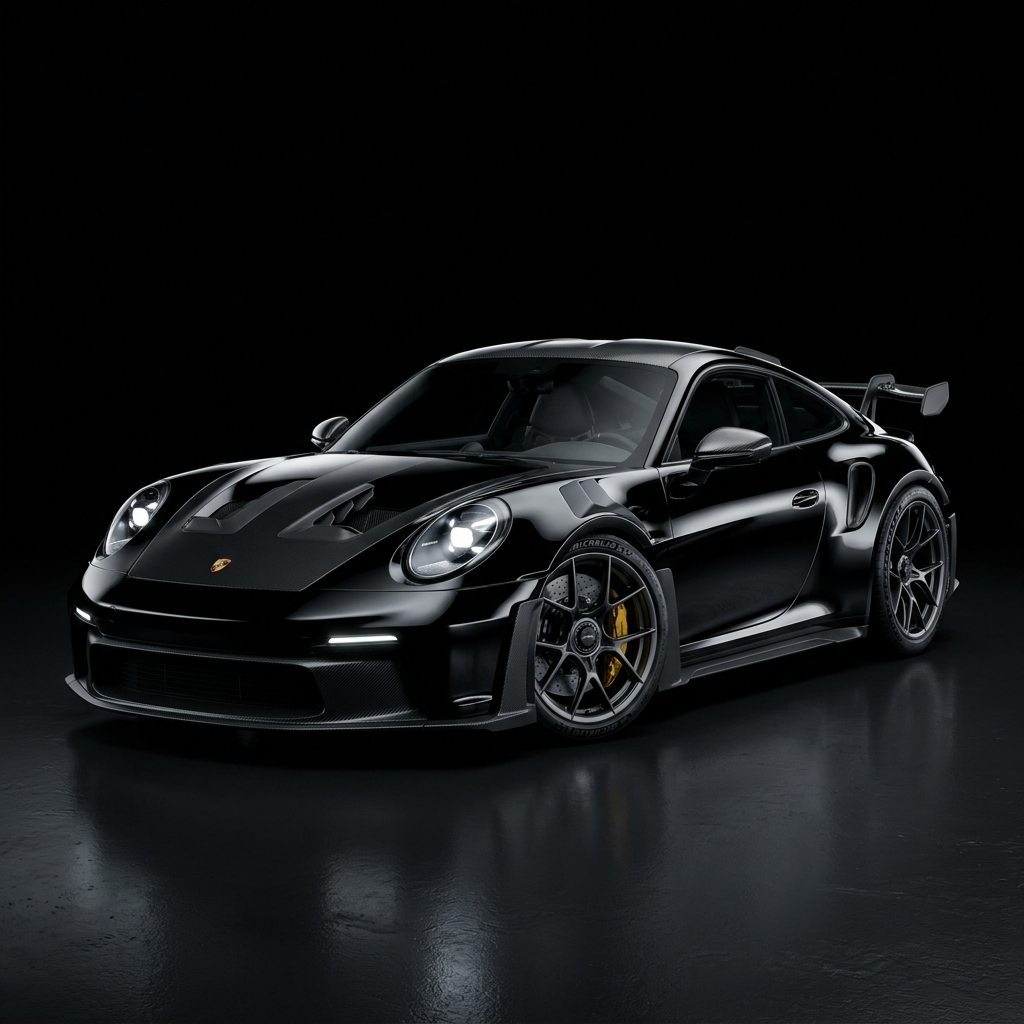
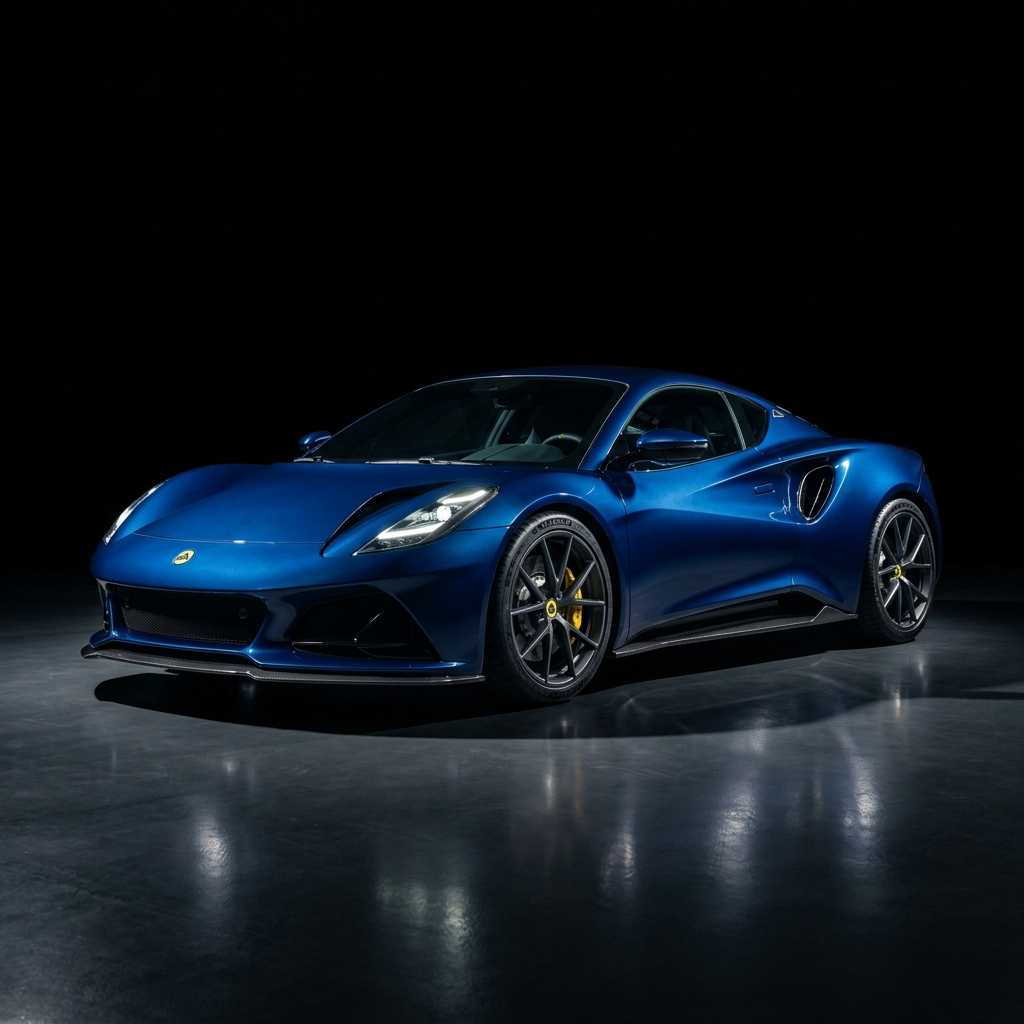
ui updated

diff --git a/src/app/admin/page.jsx b/src/app/admin/page.jsx
@@ -17,6 +17,7 @@ import {
 } from "firebase/storage";
 import { motion, AnimatePresence } from "framer-motion";
 import Image from "next/image";
+import Link from "next/link";
 
 export default function AdminPage() {
   const [user, setUser] = useState(null);
@@ -35,7 +36,17 @@ export default function AdminPage() {
   const [carFormData, setCarFormData] = useState({
     name: "", brand: "", model: "", year: new Date().getFullYear(),
     type: "rental", price: 0, rentalDaily: 0, rentalWeekly: 0,
-    description: "", available: true, images: []
+    description: "", available: true, images: [],
+    // New fields
+    premium: false,
+    seats: 5,
+    suitcases: 2,
+    bags: 2,
+    transmission: "Automatic",
+    doors: 4,
+    gps: true,
+    minAge: 25,
+    terms: "01. Minimum Age: Driver must be at least 25 years old with a valid driving license.\n02. Identification: Passport or National ID required for security verification.\n03. Security Deposit: A refundable security deposit of ৳20,000 is required upon delivery.\n04. Usage: Vehicle must be driven within national boundaries only.\n05. Fuel Policy: Vehicle will be delivered with a full tank and must be returned with a full tank."
   });
   const [uploadingImages, setUploadingImages] = useState(false);
   const [tempImageUrl, setTempImageUrl] = useState("");
@@ -101,7 +112,9 @@ export default function AdminPage() {
       setCarFormData({
         name: "", brand: "", model: "", year: new Date().getFullYear(),
         type: "rental", price: 0, rentalDaily: 0, rentalWeekly: 0,
-        description: "", available: true, images: []
+        description: "", available: true, images: [],
+        premium: false, seats: 5, suitcases: 2, bags: 2, transmission: "Automatic", doors: 4, gps: true, minAge: 25,
+        terms: "01. Minimum Age: Driver must be at least 25 years old with a valid driving license.\n02. Identification: Passport or National ID required for security verification.\n03. Security Deposit: A refundable security deposit of ৳20,000 is required upon delivery.\n04. Usage: Vehicle must be driven within national boundaries only.\n05. Fuel Policy: Vehicle will be delivered with a full tank and must be returned with a full tank."
       });
       fetchData();
     } catch (error) {
@@ -234,8 +247,11 @@ export default function AdminPage() {
       {/* Header */}
       <header className="border-b border-white/5 bg-[#0a0a0a]/80 backdrop-blur-xl sticky top-0 z-30">
         <div className="container mx-auto px-6 h-20 flex justify-between items-center">
-          <h1 className="text-2xl font-bebas text-white tracking-widest">DEALS ON WHEELS <span className="text-primary ml-2">ADMIN</span></h1>
+          <Link href="/" className="text-2xl font-bebas text-white tracking-widest hover:text-white/80 transition-colors">DEALS ON WHEELS <span className="text-primary ml-2">ADMIN</span></Link>
           <div className="flex items-center gap-6">
+            <Link href="/" className="text-[10px] font-bold text-white/60 hover:text-white border border-white/10 px-4 py-2 uppercase tracking-widest transition-colors hidden md:block">
+              BACK TO SITE
+            </Link>
             <span className="text-xs text-white/40 tracking-widest uppercase hidden md:block">{user.email}</span>
             <button onClick={handleLogout} className="text-[10px] font-bold text-white/60 hover:text-white border border-white/10 px-4 py-2 uppercase tracking-widest transition-colors">
               LOGOUT
@@ -321,7 +337,13 @@ export default function AdminPage() {
               <button 
                 onClick={() => {
                   setEditingCar(null);
-                  setCarFormData({ name: "", brand: "", model: "", year: new Date().getFullYear(), type: "rental", price: 0, rentalDaily: 0, rentalWeekly: 0, description: "", available: true, images: [] });
+                  setCarFormData({ 
+                    name: "", brand: "", model: "", year: new Date().getFullYear(), 
+                    type: "rental", price: 0, rentalDaily: 0, rentalWeekly: 0, 
+                    description: "", available: true, images: [],
+                    premium: false, seats: 5, suitcases: 2, bags: 2, transmission: "Automatic", doors: 4, gps: true, minAge: 25,
+                    terms: "01. Minimum Age: Driver must be at least 25 years old with a valid driving license.\n02. Identification: Passport or National ID required for security verification.\n03. Security Deposit: A refundable security deposit of ৳20,000 is required upon delivery.\n04. Usage: Vehicle must be driven within national boundaries only.\n05. Fuel Policy: Vehicle will be delivered with a full tank and must be returned with a full tank."
+                  });
                   setIsCarModalOpen(true);
                 }}
                 className="px-6 py-3 bg-white text-black text-xs font-bold uppercase tracking-widest hover:bg-white/90 transition-colors"
@@ -442,6 +464,69 @@ export default function AdminPage() {
                           <label className="text-[10px] text-white/40 uppercase tracking-[0.15em] mb-2 block">Weekly Rental Rate (BDT)</label>
                           <input type="number" value={carFormData.rentalWeekly} onChange={(e) => setCarFormData({...carFormData, rentalWeekly: parseInt(e.target.value) || 0})} className="w-full bg-[#050505] border border-white/10 p-4 text-sm font-mono text-white outline-none focus:border-primary transition-colors" placeholder="e.g. 30000" />
                         </div>
+                      </div>
+                    </div>
+
+                    <div className="border-t border-white/5 pt-6 mt-6 space-y-6">
+                      <h3 className="text-xs font-bold text-white uppercase tracking-widest mb-4">Detailed Specifications</h3>
+                      
+                      <div className="grid grid-cols-2 gap-6">
+                        <label className="flex items-center gap-3 cursor-pointer p-4 border border-white/5 bg-[#050505] hover:border-white/20 transition-colors">
+                          <div className={`w-4 h-4 border flex items-center justify-center transition-colors ${carFormData.premium ? 'bg-primary border-primary' : 'border-white/20'}`}>
+                            {carFormData.premium && <span className="text-white text-[10px]">✓</span>}
+                          </div>
+                          <input type="checkbox" checked={carFormData.premium} onChange={(e) => setCarFormData({...carFormData, premium: e.target.checked})} className="hidden" />
+                          <span className="text-[10px] tracking-widest uppercase text-white/70">Premium Brand</span>
+                        </label>
+                        
+                        <label className="flex items-center gap-3 cursor-pointer p-4 border border-white/5 bg-[#050505] hover:border-white/20 transition-colors">
+                          <div className={`w-4 h-4 border flex items-center justify-center transition-colors ${carFormData.gps ? 'bg-primary border-primary' : 'border-white/20'}`}>
+                            {carFormData.gps && <span className="text-white text-[10px]">✓</span>}
+                          </div>
+                          <input type="checkbox" checked={carFormData.gps} onChange={(e) => setCarFormData({...carFormData, gps: e.target.checked})} className="hidden" />
+                          <span className="text-[10px] tracking-widest uppercase text-white/70">GPS Included</span>
+                        </label>
+                      </div>
+
+                      <div className="grid grid-cols-2 gap-6">
+                        <div>
+                          <label className="text-[10px] text-white/40 uppercase tracking-[0.15em] mb-2 block">Seats</label>
+                          <input type="number" value={carFormData.seats} onChange={(e) => setCarFormData({...carFormData, seats: parseInt(e.target.value) || 0})} className="w-full bg-[#050505] border border-white/10 p-4 text-sm text-white outline-none focus:border-primary transition-colors" />
+                        </div>
+                        <div>
+                          <label className="text-[10px] text-white/40 uppercase tracking-[0.15em] mb-2 block">Transmission</label>
+                          <select value={carFormData.transmission} onChange={(e) => setCarFormData({...carFormData, transmission: e.target.value})} className="w-full bg-[#050505] border border-white/10 p-4 text-sm text-white outline-none focus:border-primary transition-colors appearance-none">
+                            <option value="Automatic">Automatic</option>
+                            <option value="Manual">Manual</option>
+                          </select>
+                        </div>
+                      </div>
+
+                      <div className="grid grid-cols-2 gap-6">
+                        <div>
+                          <label className="text-[10px] text-white/40 uppercase tracking-[0.15em] mb-2 block">Suitcases (Large)</label>
+                          <input type="number" value={carFormData.suitcases} onChange={(e) => setCarFormData({...carFormData, suitcases: parseInt(e.target.value) || 0})} className="w-full bg-[#050505] border border-white/10 p-4 text-sm text-white outline-none focus:border-primary transition-colors" />
+                        </div>
+                        <div>
+                          <label className="text-[10px] text-white/40 uppercase tracking-[0.15em] mb-2 block">Bags (Small)</label>
+                          <input type="number" value={carFormData.bags} onChange={(e) => setCarFormData({...carFormData, bags: parseInt(e.target.value) || 0})} className="w-full bg-[#050505] border border-white/10 p-4 text-sm text-white outline-none focus:border-primary transition-colors" />
+                        </div>
+                      </div>
+
+                      <div className="grid grid-cols-2 gap-6">
+                        <div>
+                          <label className="text-[10px] text-white/40 uppercase tracking-[0.15em] mb-2 block">Doors</label>
+                          <input type="number" value={carFormData.doors} onChange={(e) => setCarFormData({...carFormData, doors: parseInt(e.target.value) || 0})} className="w-full bg-[#050505] border border-white/10 p-4 text-sm text-white outline-none focus:border-primary transition-colors" />
+                        </div>
+                        <div>
+                          <label className="text-[10px] text-white/40 uppercase tracking-[0.15em] mb-2 block">Min Driver Age</label>
+                          <input type="number" value={carFormData.minAge} onChange={(e) => setCarFormData({...carFormData, minAge: parseInt(e.target.value) || 0})} className="w-full bg-[#050505] border border-white/10 p-4 text-sm text-white outline-none focus:border-primary transition-colors" />
+                        </div>
+                      </div>
+
+                      <div>
+                        <label className="text-[10px] text-white/40 uppercase tracking-[0.15em] mb-2 block">Rental Terms & Conditions</label>
+                        <textarea value={carFormData.terms} onChange={(e) => setCarFormData({...carFormData, terms: e.target.value})} className="w-full h-32 bg-[#050505] border border-white/10 p-4 text-sm text-white outline-none focus:border-primary transition-colors resize-none" placeholder="Enter rental rules and conditions..." />
                       </div>
                     </div>
 

diff --git a/src/components/CarCard.jsx b/src/components/CarCard.jsx
@@ -1,13 +1,15 @@
 // src/components/CarCard.jsx
 "use client";
 
-import { motion, useMotionValue, useSpring, useTransform } from "framer-motion";
+import { useState } from "react";
+import { motion, useMotionValue, useSpring, useTransform, AnimatePresence } from "framer-motion";
 import Image from "next/image";
 import { openWhatsApp } from "@/lib/whatsapp";
 import { useLanguage } from "@/lib/LanguageContext";
 
 const CarCard = ({ car, mode, onBook }) => {
   const { t } = useLanguage();
+  const [showTerms, setShowTerms] = useState(false);
   const x = useMotionValue(0);
   const y = useMotionValue(0);
 
@@ -47,6 +49,7 @@ const CarCard = ({ car, mode, onBook }) => {
   };
 
   return (
+    <>
     <motion.div
       onMouseMove={handleMouseMove}
       onMouseLeave={handleMouseLeave}
@@ -88,12 +91,45 @@ const CarCard = ({ car, mode, onBook }) => {
       <div className="p-8 z-10 flex-grow flex flex-col justify-between" style={{ transform: "translateZ(30px)" }}>
         <div>
           <h3 className="text-3xl font-bebas tracking-wide text-white mb-1 uppercase">{car.name}</h3>
-          <div className="flex items-center gap-3 text-[10px] text-white/40 uppercase tracking-[0.15em] mb-8 font-medium">
+          <div className="flex items-center gap-3 text-[10px] text-white/40 uppercase tracking-[0.15em] mb-4 font-medium">
             <span>{car.brand}</span>
             <span className="w-1 h-1 bg-white/20 rounded-full" />
             <span>{car.year}</span>
             <span className="w-1 h-1 bg-white/20 rounded-full" />
             <span>{car.model}</span>
+          </div>
+
+          {/* New Specs Icons: Horizontal & Gray */}
+          <div className="grid grid-cols-2 md:grid-cols-3 gap-y-4 gap-x-4 mb-8 py-6 border-y border-white/5">
+            <div className="flex items-center gap-2">
+              <svg className="w-4 h-4 text-white/60 shrink-0" fill="none" viewBox="0 0 24 24" stroke="currentColor"><path strokeLinecap="round" strokeLinejoin="round" strokeWidth={1.5} d="M16 7a4 4 0 11-8 0 4 4 0 018 0zM12 14a7 7 0 00-7 7h14a7 7 0 00-7-7z" /></svg>
+              <span className="text-[10px] text-white/80 font-mono tracking-tight whitespace-nowrap">{car.seats || 5} Seats</span>
+            </div>
+            <div className="flex items-center gap-2">
+              <svg className="w-4 h-4 text-white/60 shrink-0" fill="none" viewBox="0 0 24 24" stroke="currentColor"><path strokeLinecap="round" strokeLinejoin="round" strokeWidth={1.5} d="M21 13.255A23.931 23.931 0 0112 15c-3.183 0-6.22-.62-9-1.745M16 6V4a2 2 0 00-2-2h-4a2 2 0 00-2 2v2m4 6h.01M5 20h14a2 2 0 002-2V8a2 2 0 00-2-2H5a2 2 0 00-2 2v10a2 2 0 002 2z" /></svg>
+              <span className="text-[10px] text-white/80 font-mono tracking-tight whitespace-nowrap">{car.suitcases || 2} Bags</span>
+            </div>
+            <div className="flex items-center gap-2">
+              <svg className="w-4 h-4 text-white/60 shrink-0" fill="none" viewBox="0 0 24 24" stroke="currentColor"><path strokeLinecap="round" strokeLinejoin="round" strokeWidth={1.5} d="M10.325 4.317c.426-1.756 2.924-1.756 3.35 0a1.724 1.724 0 002.573 1.066c1.543-.94 3.31.826 2.37 2.37a1.724 1.724 0 001.065 2.572c1.756.426 1.756 2.924 0 3.35a1.724 1.724 0 00-1.066 2.573c.94 1.543-.826 3.31-2.37 2.37a1.724 1.724 0 00-2.572 1.065c-.426 1.756-2.924 1.756-3.35 0a1.724 1.724 0 00-2.573-1.066c-1.543.94-3.31-.826-2.37-2.37a1.724 1.724 0 00-1.065-2.572c-1.756-.426-1.756-2.924 0-3.35a1.724 1.724 0 001.066-2.573c-.94-1.543.826-3.31 2.37-2.37.996.608 2.296.07 2.572-1.065z" /><path strokeLinecap="round" strokeLinejoin="round" strokeWidth={1.5} d="M15 12a3 3 0 11-6 0 3 3 0 016 0z" /></svg>
+              <span className="text-[10px] text-white/80 font-mono tracking-tight whitespace-nowrap">{car.transmission || "Auto"}</span>
+            </div>
+            <div className="flex items-center gap-2">
+              <svg className="w-4 h-4 text-white/60 shrink-0" fill="none" viewBox="0 0 24 24" stroke="currentColor"><path strokeLinecap="round" strokeLinejoin="round" strokeWidth={1.5} d="M17.657 16.657L13.414 20.9a1.998 1.998 0 01-2.827 0l-4.244-4.243a8 8 0 1111.314 0z" /><path strokeLinecap="round" strokeLinejoin="round" strokeWidth={1.5} d="M15 11a3 3 0 11-6 0 3 3 0 016 0z" /></svg>
+              <span className="text-[10px] text-white/80 font-mono tracking-tight whitespace-nowrap">{car.gps ? "GPS" : "No GPS"}</span>
+            </div>
+            <div className="flex items-center gap-2">
+              <svg className="w-4 h-4 text-white/60 shrink-0" fill="none" viewBox="0 0 24 24" stroke="currentColor"><path strokeLinecap="round" strokeLinejoin="round" strokeWidth={1.5} d="M12 11c0 3.517-1.009 6.799-2.753 9.571m-3.44-10.426A7.29 7.29 0 013 11c0-2.348.966-4.47 2.522-5.978m9.226 13.253a7.29 7.29 0 004.73-3.722C19.82 13.013 20 11.831 20 10.614c0-2.348-.966-4.47-2.522-5.978m-9.226 0a7.29 7.29 0 014.73-3.722C13.82 2.013 14 3.191 14 4.408c0 1.216-.18 2.398-.522 3.516" /></svg>
+              <span className="text-[10px] text-white/80 font-mono tracking-tight whitespace-nowrap">Age: {car.minAge || 25}+</span>
+            </div>
+            <div className="flex items-center gap-2">
+              <svg className="w-4 h-4 text-white/60 shrink-0" fill="none" viewBox="0 0 24 24" stroke="currentColor"><path strokeLinecap="round" strokeLinejoin="round" strokeWidth={1.5} d="M19 11H5m14 0a2 2 0 012 2v6a2 2 0 01-2 2H5a2 2 0 01-2-2v-6a2 2 0 012-2m14 0V9a2 2 0 00-2-2M5 11V9a2 2 0 012-2m0 0V5a2 2 0 012-2h6a2 2 0 012 2v2M7 7h10" /></svg>
+              <span className="text-[10px] text-white/80 font-mono tracking-tight whitespace-nowrap">{car.doors || 4} Doors</span>
+            </div>
+            {car.premium && (
+              <div className="flex items-center gap-2 col-span-2">
+                <span className="text-[9px] font-bold tracking-[0.2em] text-primary border border-primary/20 px-3 py-1 rounded-none uppercase bg-primary/5">PREMIUM BRAND</span>
+              </div>
+            )}
           </div>
         </div>
 
@@ -146,7 +182,45 @@ const CarCard = ({ car, mode, onBook }) => {
           </div>
         )}
       </div>
+
+      {/* Terms Link */}
+      {mode === "rental" && (
+        <button 
+          onClick={() => setShowTerms(true)}
+          className="absolute bottom-2 left-1/2 -translate-x-1/2 text-[8px] text-white/20 uppercase tracking-widest hover:text-primary transition-colors"
+        >
+          View Rental Terms
+        </button>
+      )}
     </motion.div>
+
+    {/* Terms & Conditions Modal - MOVED OUTSIDE to avoid overflow clipping */}
+    <AnimatePresence>
+      {showTerms && (
+        <div className="fixed inset-0 z-[100] flex items-center justify-center p-6">
+          <motion.div initial={{ opacity: 0 }} animate={{ opacity: 1 }} exit={{ opacity: 0 }} onClick={() => setShowTerms(false)} className="absolute inset-0 bg-[#050505]/95 backdrop-blur-md" />
+          <motion.div 
+            initial={{ scale: 0.9, opacity: 0, y: 20 }} 
+            animate={{ scale: 1, opacity: 1, y: 0 }} 
+            exit={{ scale: 0.9, opacity: 0, y: 20 }}
+            className="relative w-full max-w-lg bg-[#0a0a0a] border border-white/10 p-10 overflow-y-auto max-h-[80vh] no-scrollbar z-50"
+          >
+            <h3 className="text-3xl font-bebas tracking-widest text-white mb-6 uppercase">Rental Terms & Conditions</h3>
+            <div className="space-y-4 text-sm text-white/60 leading-relaxed font-light tracking-wide whitespace-pre-line">
+              {car.terms || `01. Minimum Age: Driver must be at least ${car.minAge || 25} years old with a valid driving license.
+02. Identification: Passport or National ID required for security verification.
+03. Security Deposit: A refundable security deposit of ৳20,000 is required upon delivery.
+04. Usage: Vehicle must be driven within national boundaries only.
+05. Fuel Policy: Vehicle will be delivered with a full tank and must be returned with a full tank.`}
+            </div>
+            <button onClick={() => setShowTerms(false)} className="w-full mt-10 py-4 bg-white text-black font-bold text-xs uppercase tracking-widest transition-all hover:bg-white/90">
+              UNDERSTOOD
+            </button>
+          </motion.div>
+        </div>
+      )}
+    </AnimatePresence>
+    </>
   );
 };
 

diff --git a/src/components/HeroSection.jsx b/src/components/HeroSection.jsx
@@ -5,7 +5,7 @@ import { motion, useScroll, useTransform } from "framer-motion";
 import { useLanguage } from "@/lib/LanguageContext";
 import { useRef, Suspense, useLayoutEffect } from "react";
 import { Canvas } from "@react-three/fiber";
-import { OrbitControls, Stage, useGLTF } from "@react-three/drei";
+import { OrbitControls, Stage, useGLTF, Environment } from "@react-three/drei";
 import * as THREE from "three";
 
 function CarModel() {
@@ -14,21 +14,22 @@ function CarModel() {
   useLayoutEffect(() => {
     scene.traverse((child) => {
       if (child.isMesh && child.material) {
-        // Find the main body material (Ferrari model uses "body" or very red colors)
-        if (child.name.toLowerCase().includes("body") || child.material.name.toLowerCase().includes("body") || 
-           (child.material.color && child.material.color.r > 0.5 && child.material.color.g < 0.2)) {
-          
-          // Apply a stunning Metallic Blue finish
-          child.material.color = new THREE.Color("#0044ff");
-          if (child.material.metalness !== undefined) child.material.metalness = 0.7;
-          if (child.material.roughness !== undefined) child.material.roughness = 0.2;
-          if (child.material.clearcoat !== undefined) child.material.clearcoat = 1.0;
+        // Apply a high-contrast Arctic White & Obsidian Black finish
+        if (child.name.toLowerCase().includes("body") || child.material.name.toLowerCase().includes("body")) {
+          child.material.color = new THREE.Color("#ffffff"); // Arctic White
+          child.material.metalness = 0.7;
+          child.material.roughness = 0.05;
+        } else {
+          child.material.color = new THREE.Color("#050505"); // Obsidian Black
+          child.material.metalness = 0.8;
+          child.material.roughness = 0.2;
         }
+        if (child.material.clearcoat !== undefined) child.material.clearcoat = 1.0;
       }
     });
   }, [scene]);
 
-  return <primitive object={scene} scale={2.8} position={[0, -0.5, 0]} />;
+  return <primitive object={scene} scale={1.8} position={[0, 0, 0]} />;
 }
 const HeroSection = () => {
   const { t, lang } = useLanguage();
@@ -75,8 +76,12 @@ const HeroSection = () => {
     <section
       id="hero"
       ref={containerRef}
-      className="relative h-screen w-full flex flex-col justify-center items-center overflow-hidden bg-[#050505]"
+      className="relative h-screen w-full flex flex-col justify-center items-center overflow-hidden bg-[#0a0a0a]"
     >
+      {/* Exclusive Background Glow */}
+      <div className="absolute inset-0 z-0">
+        <div className="absolute top-1/2 left-1/2 -translate-x-1/2 -translate-y-1/2 w-[150%] h-[150%] bg-[radial-gradient(circle_at_center,rgba(0,68,255,0.08)_0%,transparent_50%)]" />
+      </div>
       {/* Background Gradient */}
       <motion.div
         style={{ y, opacity }}
@@ -136,25 +141,27 @@ const HeroSection = () => {
           </motion.div>
         </div>
 
-        {/* Right Side: 3D Car Model */}
+        {/* Right Side: Interactive 3D Car */}
         <motion.div
-          initial={{ opacity: 0, scale: 0.9 }}
+          initial={{ opacity: 0, scale: 0.8 }}
           animate={{ opacity: 1, scale: 1 }}
           transition={{ delay: 0.4, duration: 1.2 }}
-          className="w-full lg:w-1/2 h-[50vh] lg:h-[80vh] cursor-grab active:cursor-grabbing relative z-30"
+          className="w-full lg:w-[60%] h-[50vh] lg:h-[80vh] cursor-grab active:cursor-grabbing relative z-30"
         >
-          <Canvas shadows camera={{ position: [4, 2, 5], fov: 45 }}>
+          <Canvas shadows camera={{ position: [5, 3, 5], fov: 40 }}>
             <Suspense fallback={null}>
-              <Stage environment="city" intensity={0.5} adjustCamera={false}>
+              <Stage environment="city" intensity={0.6} adjustCamera={true}>
                 <CarModel />
               </Stage>
+              <Environment preset="city" />
             </Suspense>
             <OrbitControls 
               enableZoom={false} 
               autoRotate 
-              autoRotateSpeed={0.5} 
-              maxPolarAngle={Math.PI / 2 + 0.1} 
-              minPolarAngle={Math.PI / 3}
+              autoRotateSpeed={1} 
+              maxPolarAngle={Math.PI / 2} 
+              minPolarAngle={0}
+              makeDefault
             />
           </Canvas>
         </motion.div>